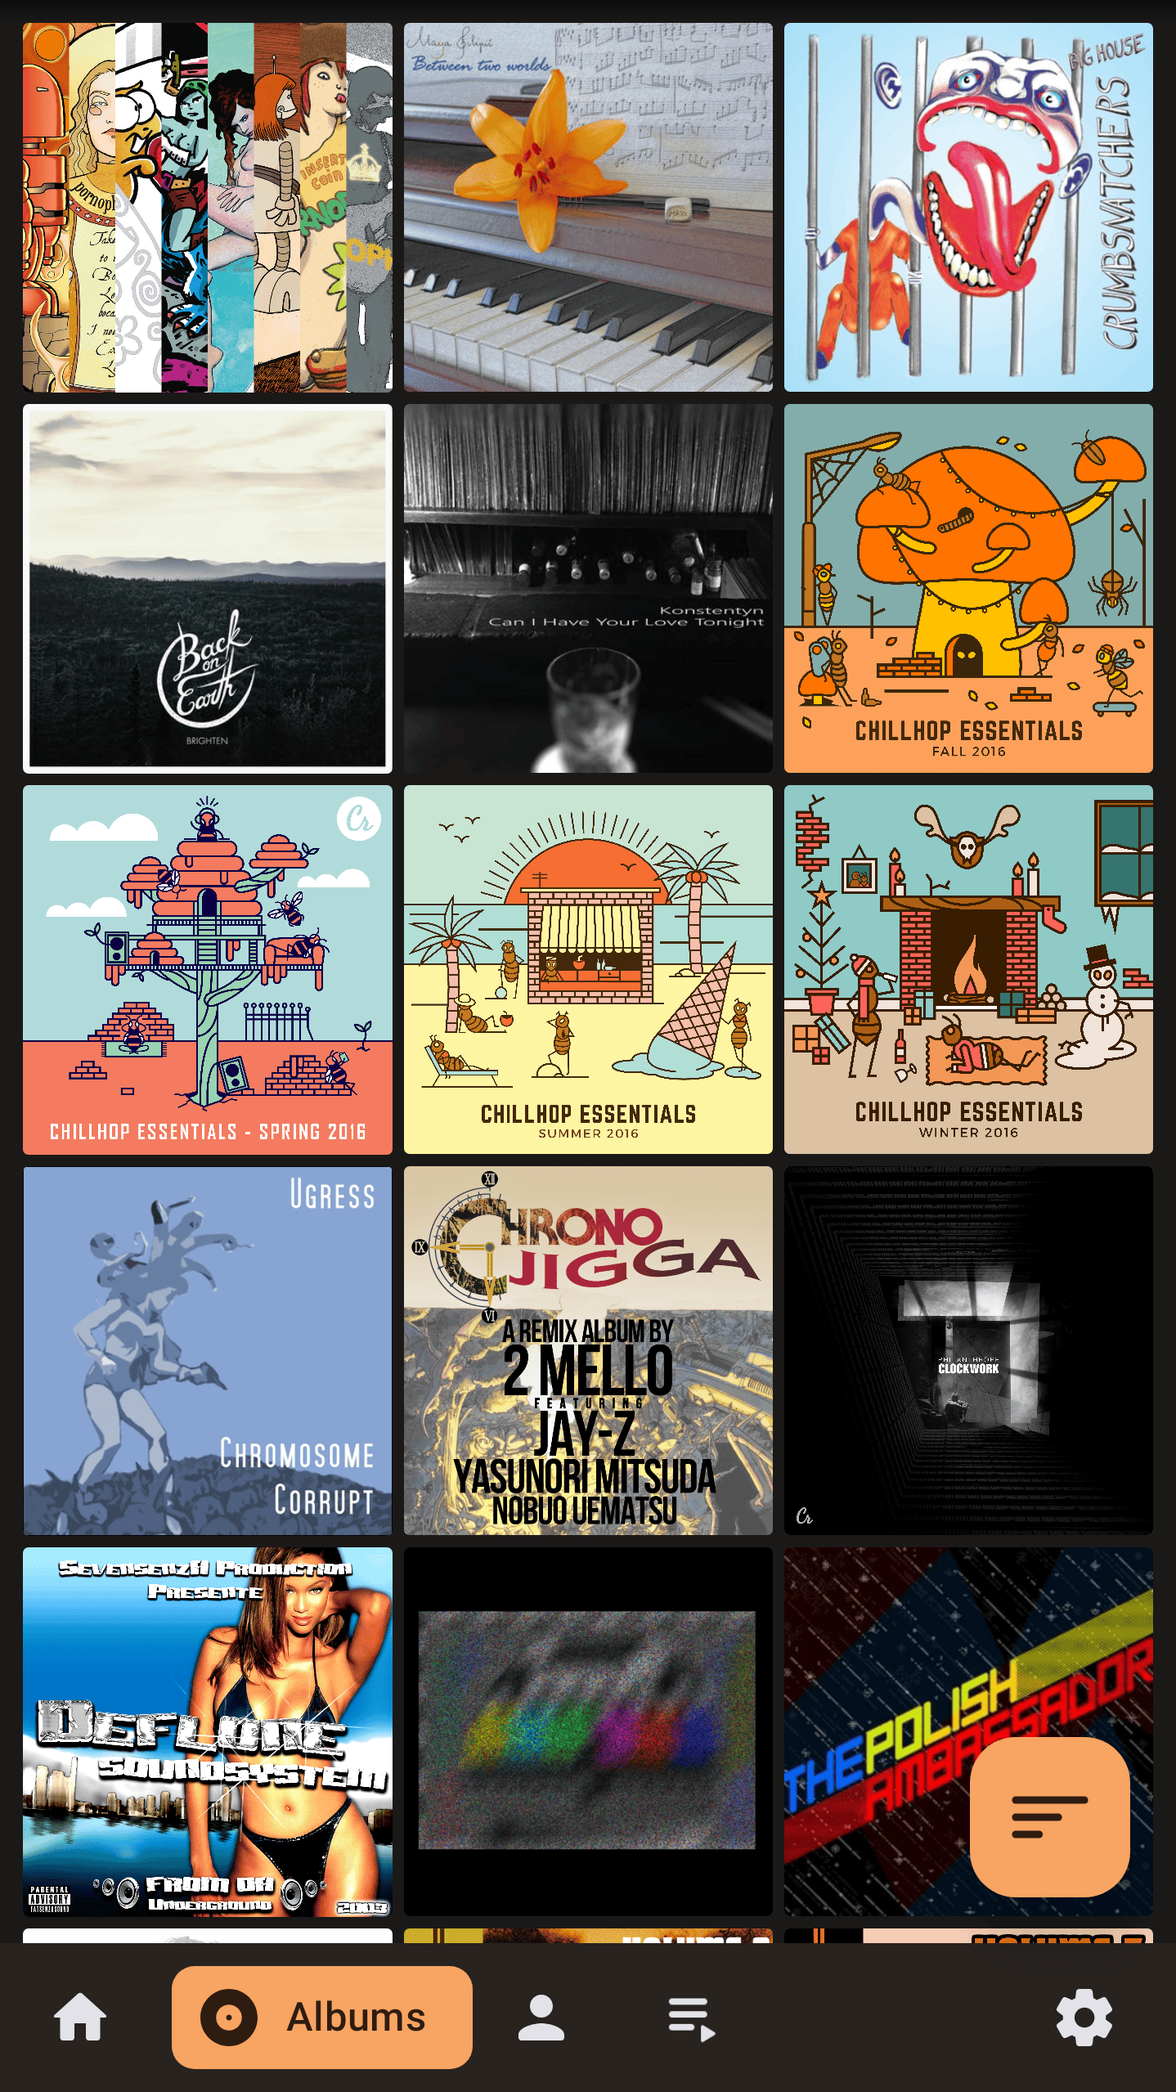
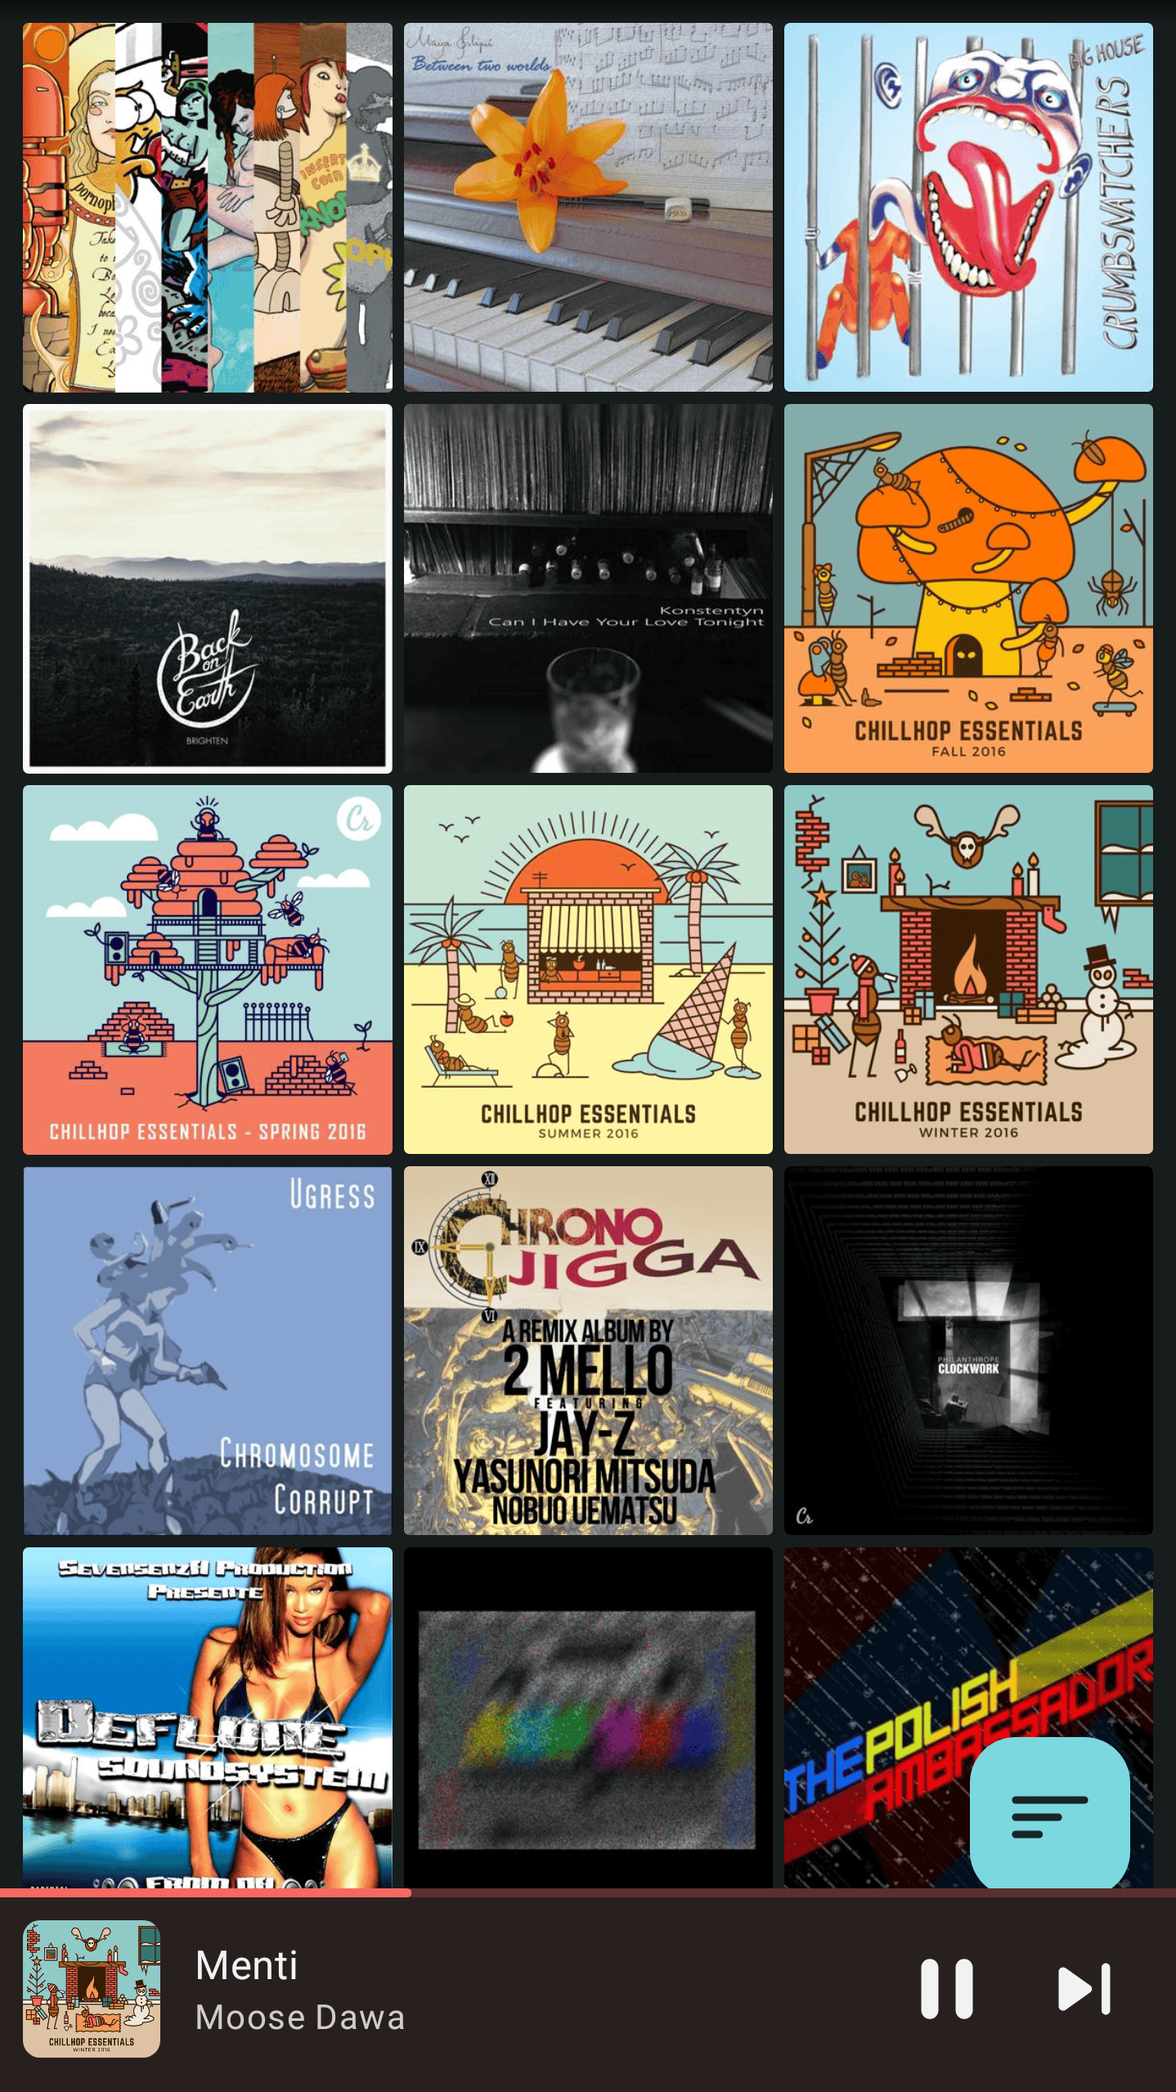
metadata: theme each screenshot and show the miniplayer
Use a different album for the now-playing and album screens (Chillhop Winter,
My latin way) so the store shots show distinct colour schemes, tint the home
screen with the playing album so the logo pops, and render the miniplayer on
the albums, album, artists and search screens. Search now runs "chill".

The generator stages the sync into an on-disk database and caches cover bytes
under the temp dir, and only fetches full-resolution art for the covers shown
large; grid art uses the thumbnail endpoint.

diff --git a/app/src/test/kotlin/com/subtracks/ui/DemoScreenshotTest.kt b/app/src/test/kotlin/com/subtracks/ui/DemoScreenshotTest.kt
@@ -5,6 +5,7 @@ import android.graphics.Bitmap
 import android.graphics.BitmapFactory
 import android.graphics.Color
 import androidx.activity.ComponentActivity
+import androidx.compose.foundation.layout.Box
 import androidx.compose.foundation.layout.fillMaxSize
 import androidx.compose.material3.Surface
 import androidx.compose.runtime.Composable
@@ -12,6 +13,7 @@ import androidx.compose.runtime.getValue
 import androidx.compose.runtime.mutableStateOf
 import androidx.compose.runtime.remember
 import androidx.compose.runtime.setValue
+import androidx.compose.ui.Alignment
 import androidx.compose.ui.Modifier
 import androidx.compose.ui.test.junit4.v2.createAndroidComposeRule
 import androidx.compose.ui.test.onRoot
@@ -50,6 +52,7 @@ import com.subtracks.ui.library.ArtistDetailScreen
 import com.subtracks.ui.library.LibraryScreen
 import com.subtracks.ui.library.LibraryTab
 import com.subtracks.ui.library.sortOptionsFor
+import com.subtracks.ui.playback.MiniPlayer
 import com.subtracks.ui.playback.NowPlayingScreen
 import com.subtracks.ui.theme.ArtworkColors
 import com.subtracks.ui.theme.ArtworkTheme
@@ -67,6 +70,7 @@ import org.junit.Test
 import org.junit.runner.RunWith
 import org.robolectric.annotation.Config
 import org.robolectric.annotation.GraphicsMode
+import java.io.File
 
 /**
  * Records the store screenshots from a real sync of the public Navidrome demo library. It is not run
@@ -123,9 +127,9 @@ class DemoScreenshotTest {
                             NowPlayingScreen(
                                 state = demo.playbackState,
                                 positionMs = demo.positionMs,
-                                title = demo.album.name,
-                                coverArt = demo.coverArt(demo.album.coverArt, false),
-                                artwork = demo.artwork(demo.album.coverArt),
+                                title = demo.nowPlayingAlbum.name,
+                                coverArt = demo.coverArt(demo.nowPlayingAlbum.coverArt, false),
+                                artwork = demo.artwork(demo.nowPlayingAlbum.coverArt),
                                 onBack = {},
                                 onQueue = {},
                                 onPlayPause = {},
@@ -137,20 +141,26 @@ class DemoScreenshotTest {
                         }
 
                         Screen.Albums -> {
-                            AlbumsScreen(demo.albums, demo.coverArt, demo.artwork(demo.albums.first().coverArt))
+                            Box(Modifier.fillMaxSize()) {
+                                AlbumsScreen(demo.albums, demo.coverArt, demo.artwork(demo.albums.first().coverArt))
+                                demo.MiniPlayerOverlay(Modifier.align(Alignment.BottomCenter))
+                            }
                         }
 
                         Screen.AlbumDetail -> {
-                            AlbumDetailScreen(
-                                album = demo.album,
-                                songs = demo.albumSongs,
-                                coverArt = demo.coverArt,
-                                artwork = demo.artwork(demo.album.coverArt),
-                                onBack = {},
-                                onSongClick = {},
-                                playingSongId = demo.song.id,
-                                modifier = Modifier.fillMaxSize(),
-                            )
+                            Box(Modifier.fillMaxSize()) {
+                                AlbumDetailScreen(
+                                    album = demo.album,
+                                    songs = demo.albumSongs,
+                                    coverArt = demo.coverArt,
+                                    artwork = demo.artwork(demo.album.coverArt),
+                                    onBack = {},
+                                    onSongClick = {},
+                                    playingSongId = demo.nowPlayingSong.id,
+                                    modifier = Modifier.fillMaxSize(),
+                                )
+                                demo.MiniPlayerOverlay(Modifier.align(Alignment.BottomCenter))
+                            }
                         }
 
                         Screen.ArtistDetail -> {
@@ -168,44 +178,50 @@ class DemoScreenshotTest {
                         }
 
                         Screen.Artists -> {
-                            LibraryScreen(
-                                selectedTab = LibraryTab.Artists,
-                                onTabSelected = {},
-                                albums = remember { flowOf(PagingData.empty<Album>()) },
-                                artists = remember { flowOf(PagingData.from(demo.artists)) },
-                                playlists = remember { flowOf(PagingData.empty<Playlist>()) },
-                                coverArt = demo.coverArt,
-                                onAlbumClick = {},
-                                onArtistClick = {},
-                                onPlaylistClick = {},
-                                onSync = {},
-                                onOpenSettings = {},
-                                artwork = demo.artwork(demo.artists.first().coverArt),
-                                modifier = Modifier.fillMaxSize(),
-                            )
+                            Box(Modifier.fillMaxSize()) {
+                                LibraryScreen(
+                                    selectedTab = LibraryTab.Artists,
+                                    onTabSelected = {},
+                                    albums = remember { flowOf(PagingData.empty<Album>()) },
+                                    artists = remember { flowOf(PagingData.from(demo.artists)) },
+                                    playlists = remember { flowOf(PagingData.empty<Playlist>()) },
+                                    coverArt = demo.coverArt,
+                                    onAlbumClick = {},
+                                    onArtistClick = {},
+                                    onPlaylistClick = {},
+                                    onSync = {},
+                                    onOpenSettings = {},
+                                    artwork = demo.artwork(demo.artists.first().coverArt),
+                                    modifier = Modifier.fillMaxSize(),
+                                )
+                                demo.MiniPlayerOverlay(Modifier.align(Alignment.BottomCenter))
+                            }
                         }
 
                         Screen.Search -> {
-                            LibraryScreen(
-                                selectedTab = LibraryTab.Albums,
-                                onTabSelected = {},
-                                albums = remember { flowOf(PagingData.from(demo.searchAlbums)) },
-                                artists = remember { flowOf(PagingData.empty<Artist>()) },
-                                playlists = remember { flowOf(PagingData.empty<Playlist>()) },
-                                coverArt = demo.coverArt,
-                                onAlbumClick = {},
-                                onArtistClick = {},
-                                onPlaylistClick = {},
-                                onSync = {},
-                                onOpenSettings = {},
-                                listQuery = ListQuery("Name"),
-                                sortOptions = sortOptionsFor(LibraryTab.Albums),
-                                starredSupported = true,
-                                search = DEMO_SEARCH,
-                                onSearchChange = {},
-                                artwork = demo.artwork(demo.searchAlbums.first().coverArt),
-                                modifier = Modifier.fillMaxSize(),
-                            )
+                            Box(Modifier.fillMaxSize()) {
+                                LibraryScreen(
+                                    selectedTab = LibraryTab.Albums,
+                                    onTabSelected = {},
+                                    albums = remember { flowOf(PagingData.from(demo.searchAlbums)) },
+                                    artists = remember { flowOf(PagingData.empty<Artist>()) },
+                                    playlists = remember { flowOf(PagingData.empty<Playlist>()) },
+                                    coverArt = demo.coverArt,
+                                    onAlbumClick = {},
+                                    onArtistClick = {},
+                                    onPlaylistClick = {},
+                                    onSync = {},
+                                    onOpenSettings = {},
+                                    listQuery = ListQuery("Name"),
+                                    sortOptions = sortOptionsFor(LibraryTab.Albums),
+                                    starredSupported = true,
+                                    search = DEMO_SEARCH,
+                                    onSearchChange = {},
+                                    artwork = demo.artwork(demo.searchAlbums.first().coverArt),
+                                    modifier = Modifier.fillMaxSize(),
+                                )
+                                demo.MiniPlayerOverlay(Modifier.align(Alignment.BottomCenter))
+                            }
                         }
                     }
                 }
@@ -259,13 +275,28 @@ class DemoScreenshotTest {
         composeRule.onRoot().captureRoboImage("src/test/screenshots/demo/$file")
     }
 
+    @Composable
+    private fun DemoData.MiniPlayerOverlay(modifier: Modifier = Modifier) {
+        MiniPlayer(
+            state = playbackState,
+            positionMs = positionMs,
+            coverArt = coverArt(nowPlayingAlbum.coverArt, true),
+            artwork = artwork(nowPlayingAlbum.coverArt),
+            onExpand = {},
+            onPlayPause = {},
+            onNext = {},
+            modifier = modifier,
+        )
+    }
+
     private enum class Screen { Home, NowPlaying, Albums, AlbumDetail, ArtistDetail, Artists, Search }
 
     private class DemoData(
         val albums: List<Album>,
         val artists: List<Artist>,
         val feed: HomeFeed,
-        val song: Song,
+        val nowPlayingSong: Song,
+        val nowPlayingAlbum: Album,
         val album: Album,
         val albumSongs: List<Song>,
         val homePlayingAlbum: Album,
@@ -281,19 +312,19 @@ class DemoScreenshotTest {
             PlaybackState(
                 item =
                     QueueItem(
-                        id = song.id,
-                        title = song.title,
-                        artist = song.artist,
-                        album = song.album,
-                        coverArtId = album.coverArt,
+                        id = nowPlayingSong.id,
+                        title = nowPlayingSong.title,
+                        artist = nowPlayingSong.artist,
+                        album = nowPlayingSong.album,
+                        coverArtId = nowPlayingAlbum.coverArt,
                     ),
                 isPlaying = true,
-                durationMs = (song.duration ?: 0) * 1000,
+                durationMs = (nowPlayingSong.duration ?: 0) * 1000,
                 hasNext = true,
                 hasPrevious = false,
             )
 
-        val positionMs: Long = (song.duration ?: 0) * 1000 * 35 / 100
+        val positionMs: Long = (nowPlayingSong.duration ?: 0) * 1000 * 35 / 100
 
         fun artwork(coverArtId: String?): ArtworkColors {
             val bitmap = coverArtId?.let(bitmaps::get) ?: return artworkColorsFromSeeds(FALLBACK_SEED, null)
@@ -326,9 +357,10 @@ class DemoScreenshotTest {
                         )
                     val source: SubsonicSource = TestServers.source(server)
 
+                    context.deleteDatabase(DEMO_DB_NAME)
                     val db =
                         Room
-                            .inMemoryDatabaseBuilder(context, SubtracksDatabase::class.java)
+                            .databaseBuilder<SubtracksDatabase>(context, DEMO_DB_NAME)
                             .setDriver(BundledSQLiteDriver())
                             .build()
                     db.sourcesDao().upsertSource(
@@ -341,9 +373,11 @@ class DemoScreenshotTest {
                     val artists = dao.artistIds(1).mapNotNull { dao.artist(1, it).first() }
                     val playlists = dao.playlistIds(1).mapNotNull { dao.playlist(1, it).first() }
 
-                    val album = albums.firstOrNull { it.name == "Future, Sex, Computers" } ?: albums.first()
+                    val nowPlayingAlbum = albums.firstOrNull { it.name == "Chillhop Essentials - Winter 2016" } ?: albums.first()
+                    val nowPlayingSongs = dao.songsByAlbum(1, nowPlayingAlbum.id).first()
+                    val nowPlayingSong = nowPlayingSongs.getOrNull(1) ?: nowPlayingSongs.first()
+                    val album = albums.firstOrNull { it.name == "My latin way" } ?: albums.first()
                     val albumSongs = dao.songsByAlbum(1, album.id).first()
-                    val song = albumSongs.getOrNull(1) ?: albumSongs.first()
                     val homePlayingAlbum = albums.firstOrNull { it.name == "Shaking The Habitual" } ?: albums.last()
                     val homePlayingSong = dao.songsByAlbum(1, homePlayingAlbum.id).first().first()
                     val artist =
@@ -376,15 +410,27 @@ class DemoScreenshotTest {
                             .filterNotNull()
                             .distinct()
 
+                    val fullSizeIds =
+                        buildSet {
+                            addAll(listOfNotNull(album.coverArt, nowPlayingAlbum.coverArt, artist.coverArt))
+                            artistAlbums.mapNotNullTo(this) { it.coverArt }
+                        }
+
                     val bitmaps = mutableMapOf<String, Bitmap>()
                     val builder = FakeImageLoaderEngine.Builder()
+                    val coverDir = DEMO_COVER_DIR.apply { mkdirs() }
                     coverArtIds.forEach { id ->
-                        val bitmap = fetchBitmap(http, source, id) ?: return@forEach
-                        bitmaps[id] = bitmap
-                        val image = bitmap.asImage()
-                        listOf(false, true).forEach { thumbnail ->
-                            source.coverArtUri(id, thumbnail)?.let { builder.intercept(it.toString(), image) }
-                        }
+                        val thumbnail = fetchBitmap(http, source, id, thumbnail = true, coverDir) ?: return@forEach
+                        source.coverArtUri(id, true)?.let { builder.intercept(it.toString(), thumbnail.asImage()) }
+                        val image =
+                            if (id in fullSizeIds) {
+                                (fetchBitmap(http, source, id, thumbnail = false, coverDir) ?: thumbnail).also {
+                                    bitmaps[id] = it
+                                }
+                            } else {
+                                thumbnail.also { bitmaps[id] = it }
+                            }
+                        source.coverArtUri(id, false)?.let { builder.intercept(it.toString(), image.asImage()) }
                     }
                     val fallback =
                         Bitmap
@@ -406,7 +452,8 @@ class DemoScreenshotTest {
                         albums = albums,
                         artists = artists,
                         feed = feed,
-                        song = song,
+                        nowPlayingSong = nowPlayingSong,
+                        nowPlayingAlbum = nowPlayingAlbum,
                         album = album,
                         albumSongs = albumSongs,
                         homePlayingAlbum = homePlayingAlbum,
@@ -424,16 +471,62 @@ class DemoScreenshotTest {
                 http: OkHttpClient,
                 source: SubsonicSource,
                 id: String,
+                thumbnail: Boolean,
+                coverDir: File,
             ): Bitmap? =
                 try {
-                    val url = source.coverArtUri(id, false) ?: return null
-                    val bytes = http.newCall(Request.Builder().url(url).build()).execute().use { it.body.bytes() }
-                    BitmapFactory.decodeByteArray(bytes, 0, bytes.size)
+                    val url = source.coverArtUri(id, thumbnail) ?: return null
+                    val file = File(coverDir, "${url.hashCode().toUInt().toString(16)}.img")
+                    if (!file.exists()) {
+                        http.newCall(Request.Builder().url(url).build()).execute().use { response ->
+                            response.body.byteStream().use { input ->
+                                file.outputStream().use { output -> input.copyTo(output) }
+                            }
+                        }
+                    }
+                    val bytes = file.readBytes()
+                    if (thumbnail) {
+                        BitmapFactory.decodeByteArray(bytes, 0, bytes.size)
+                    } else {
+                        decodeDownsampled(bytes, MAX_ART_DIM)
+                    }
                 } catch (_: Exception) {
                     null
                 }
+
+            private fun decodeDownsampled(
+                bytes: ByteArray,
+                maxDim: Int,
+            ): Bitmap? {
+                val bounds = BitmapFactory.Options().apply { inJustDecodeBounds = true }
+                BitmapFactory.decodeByteArray(bytes, 0, bytes.size, bounds)
+                var sample = 1
+                while (maxOf(bounds.outWidth, bounds.outHeight) / (sample * 2) >= maxDim) sample *= 2
+                val decoded =
+                    BitmapFactory.decodeByteArray(
+                        bytes,
+                        0,
+                        bytes.size,
+                        BitmapFactory.Options().apply { inSampleSize = sample },
+                    ) ?: return null
+                val largest = maxOf(decoded.width, decoded.height)
+                if (largest <= maxDim) return decoded
+                val scale = maxDim.toFloat() / largest
+                val scaled =
+                    Bitmap.createScaledBitmap(
+                        decoded,
+                        (decoded.width * scale).toInt().coerceAtLeast(1),
+                        (decoded.height * scale).toInt().coerceAtLeast(1),
+                        true,
+                    )
+                if (scaled !== decoded) decoded.recycle()
+                return scaled
+            }
         }
     }
 }
 
 private const val DEMO_SEARCH = "chill"
+private const val MAX_ART_DIM = 1200
+private const val DEMO_DB_NAME = "demo-screens.db"
+private val DEMO_COVER_DIR = File(System.getProperty("java.io.tmpdir"), "subtracks-demo-covers")
